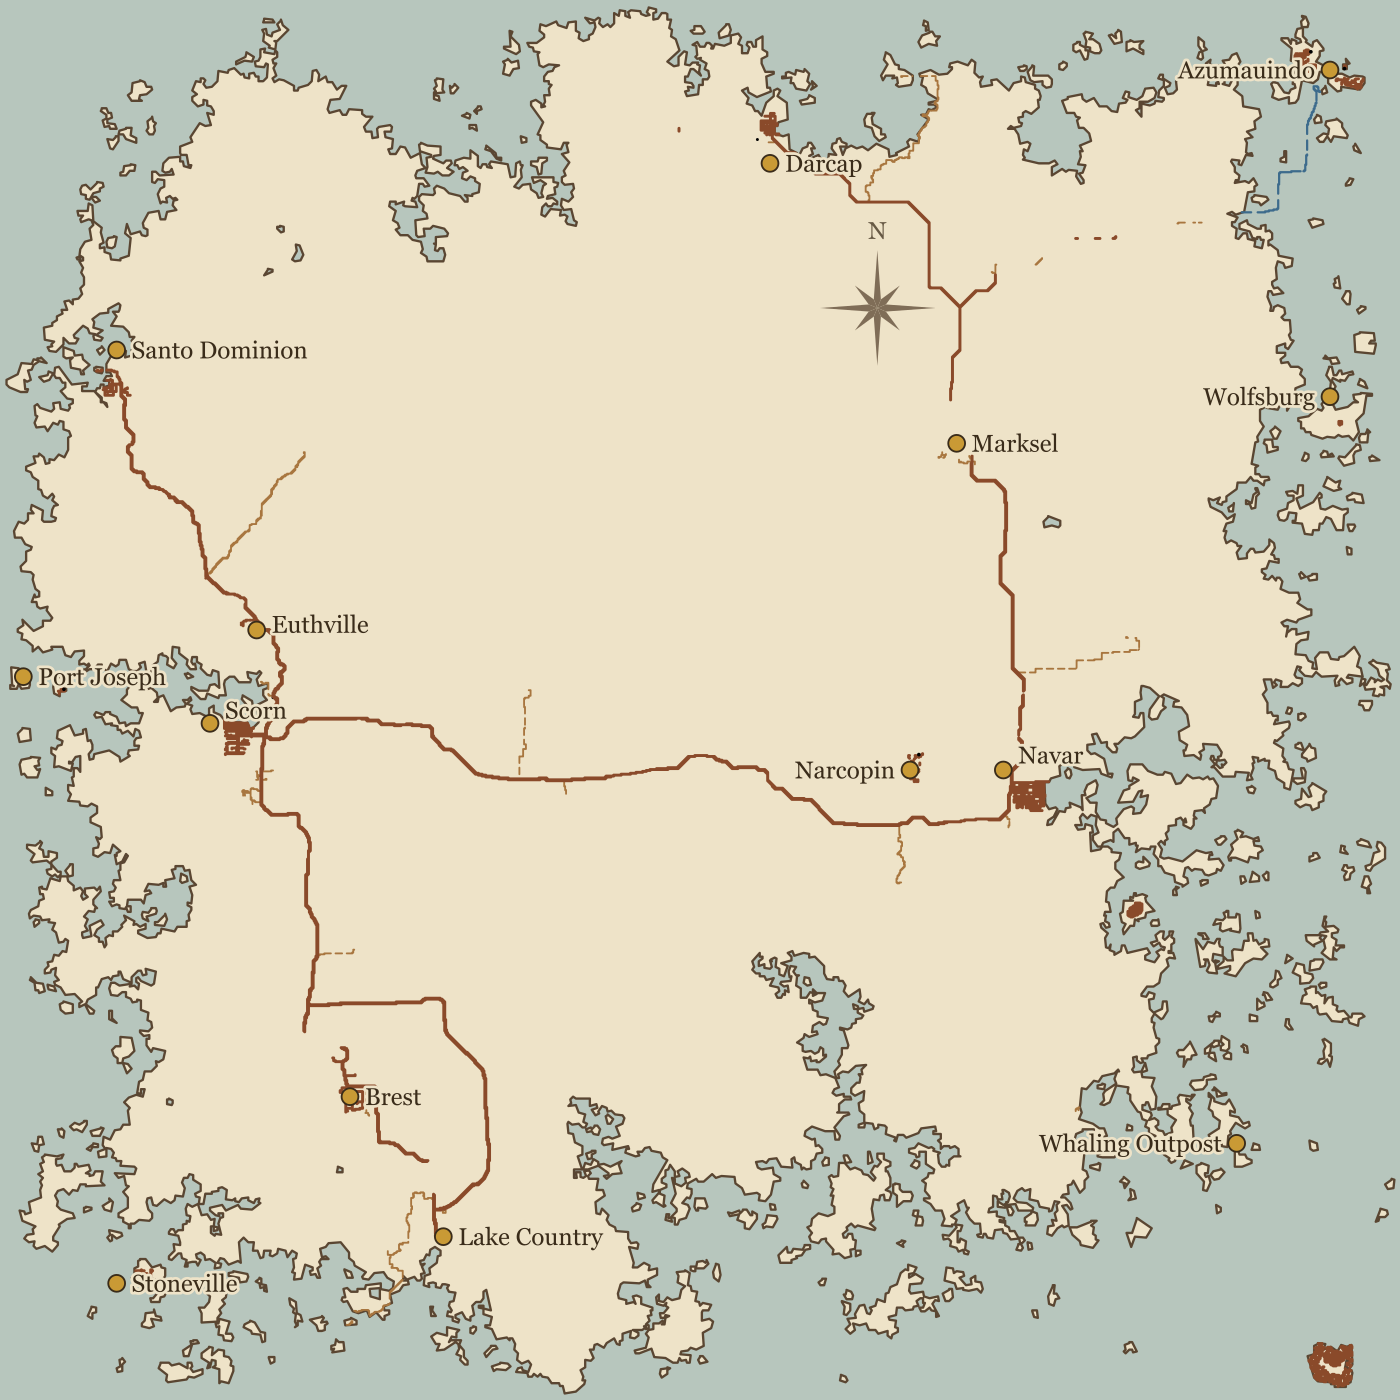
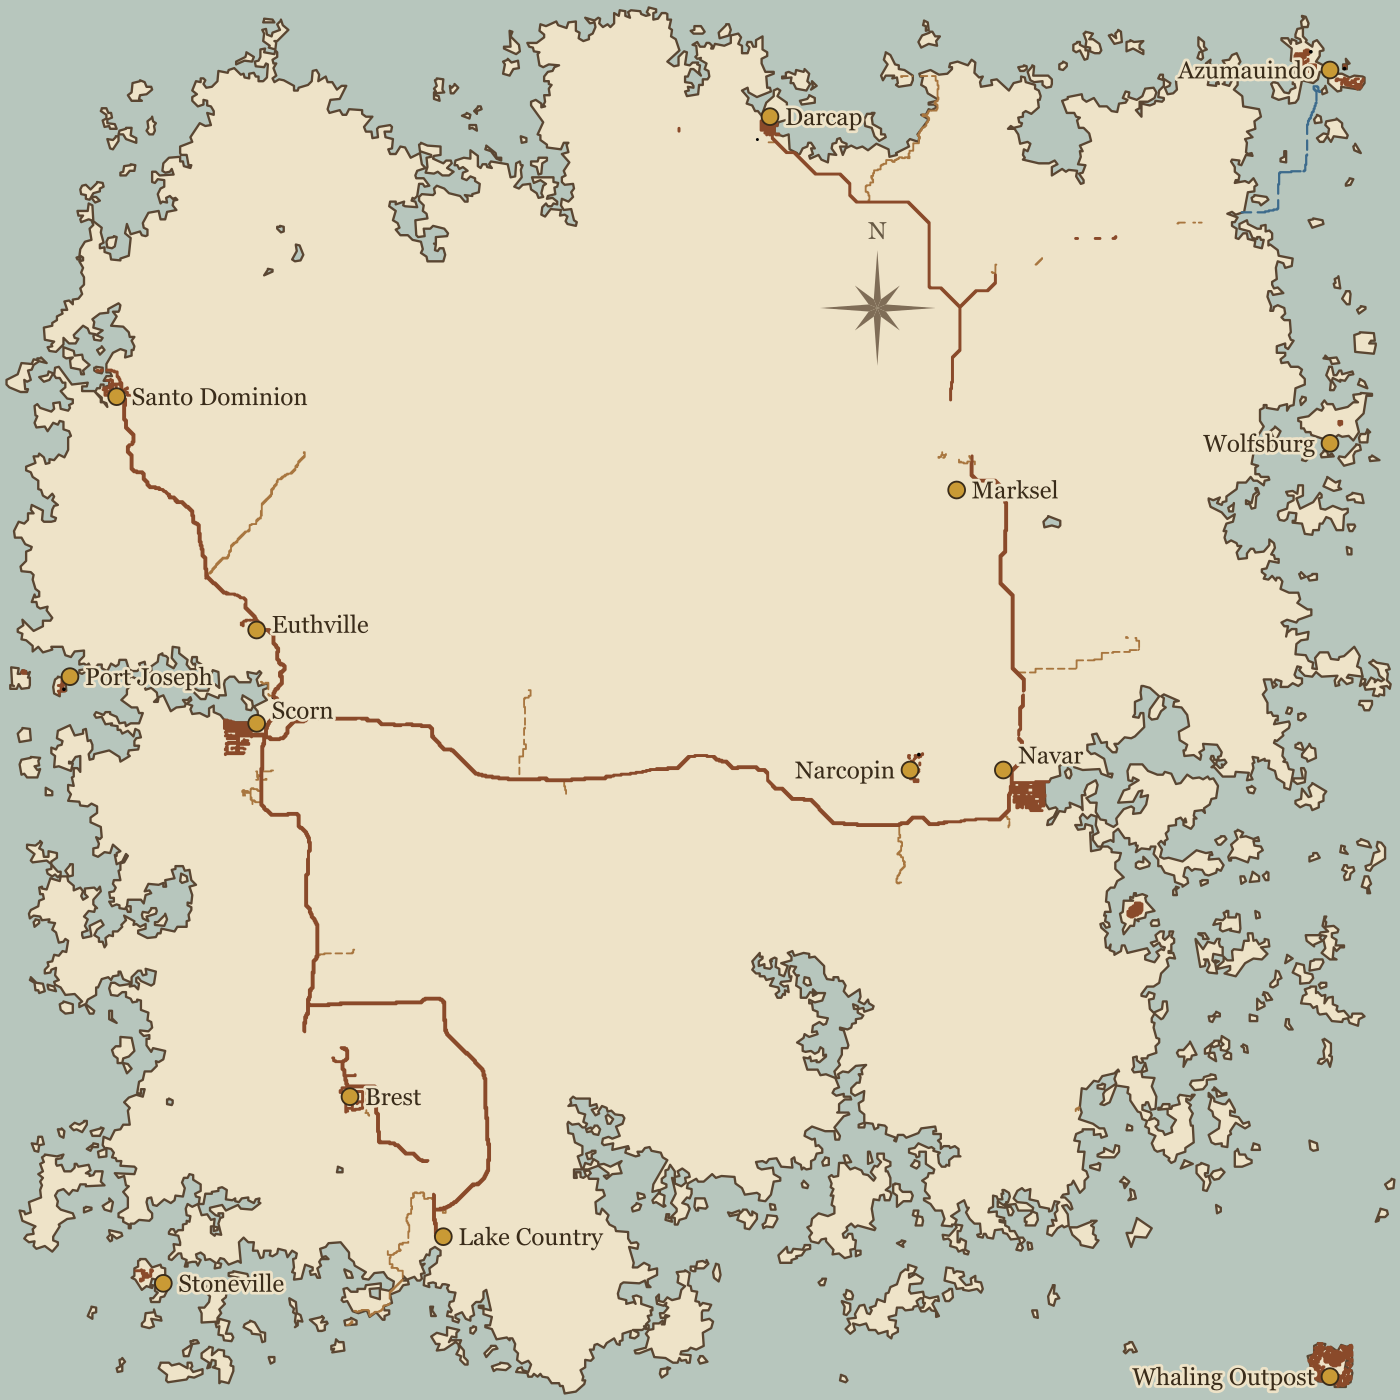
Place city markers on their settlements' street tiles
The marker tile for each region is now the one containing the most
paved-street squares, falling back to the centroid pick for street-less
regions. Fixes the Whaling Outpost marker, which sat on an empty coastal
tile (world_126_124) far from the actual outpost on the southeastern
isle (world_128_129); every other marker also snaps onto its town's
street grid. The walled island fort at world_124_119 stays unlabeled --
it has no name, region, or entrances in the map sources.

diff --git a/travel-map-data.js b/travel-map-data.js
@@ -265,17 +265,17 @@ const TRAVEL_MAP = {
   cities: [
     { name: 'Azumauindo', x: 1425, y: 75, tx: 128, ty: 101 },
     { name: 'Brest', x: 375, y: 1175, tx: 107, ty: 123 },
-    { name: 'Darcap', x: 825, y: 175, tx: 116, ty: 103 },
+    { name: 'Darcap', x: 825, y: 125, tx: 116, ty: 102 },
     { name: 'Euthville', x: 275, y: 675, tx: 105, ty: 113 },
     { name: 'Lake Country', x: 475, y: 1325, tx: 109, ty: 126 },
-    { name: 'Marksel', x: 1025, y: 475, tx: 120, ty: 109 },
+    { name: 'Marksel', x: 1025, y: 525, tx: 120, ty: 110 },
     { name: 'Narcopin', x: 975, y: 825, tx: 119, ty: 116 },
     { name: 'Navar', x: 1075, y: 825, tx: 121, ty: 116 },
-    { name: 'Port Joseph', x: 25, y: 725, tx: 100, ty: 114 },
-    { name: 'Santo Dominion', x: 125, y: 375, tx: 102, ty: 107 },
-    { name: 'Scorn', x: 225, y: 775, tx: 104, ty: 115 },
-    { name: 'Stoneville', x: 125, y: 1375, tx: 102, ty: 127 },
-    { name: 'Whaling Outpost', x: 1325, y: 1225, tx: 126, ty: 124 },
-    { name: 'Wolfsburg', x: 1425, y: 425, tx: 128, ty: 108 },
+    { name: 'Port Joseph', x: 75, y: 725, tx: 101, ty: 114 },
+    { name: 'Santo Dominion', x: 125, y: 425, tx: 102, ty: 108 },
+    { name: 'Scorn', x: 275, y: 775, tx: 105, ty: 115 },
+    { name: 'Stoneville', x: 175, y: 1375, tx: 103, ty: 127 },
+    { name: 'Whaling Outpost', x: 1425, y: 1475, tx: 128, ty: 129 },
+    { name: 'Wolfsburg', x: 1425, y: 475, tx: 128, ty: 109 },
   ]
 };

diff --git a/tools/generate-travel-map-data.py b/tools/generate-travel-map-data.py
@@ -264,6 +264,15 @@ def main(argv):
     coast = ["M" + " ".join("%g %g" % p for p in ring) + "Z"
              for _, ring in outer]
 
+    # Streets mark the settlement itself, so prefer the region tile with the
+    # most paved squares; fall back to the tile nearest the region centroid
+    # for street-less regions. (Matters for scattered regions like the
+    # Whaling Outpost, whose centroid tile is empty ocean coast.)
+    paved_per_tile = {}
+    for (x, y) in roads["paved"]:
+        t = (x // TILE + TMIN, y // TILE + TMIN)
+        paved_per_tile[t] = paved_per_tile.get(t, 0) + 1
+
     cities = []
     for code, name in sorted(SETTLEMENTS.items(), key=lambda kv: kv[1]):
         tiles = region_tiles.get(code)
@@ -273,7 +282,8 @@ def main(argv):
             continue
         cx = sum(t[0] for t in tiles) / len(tiles)
         cy = sum(t[1] for t in tiles) / len(tiles)
-        best = min(tiles, key=lambda t: (t[0] - cx) ** 2 + (t[1] - cy) ** 2)
+        best = max(tiles, key=lambda t: (paved_per_tile.get(t, 0),
+                                         -((t[0] - cx) ** 2 + (t[1] - cy) ** 2)))
         cities.append({"name": name,
                        "x": (best[0] - TMIN) * TILE + TILE // 2,
                        "y": (best[1] - TMIN) * TILE + TILE // 2,